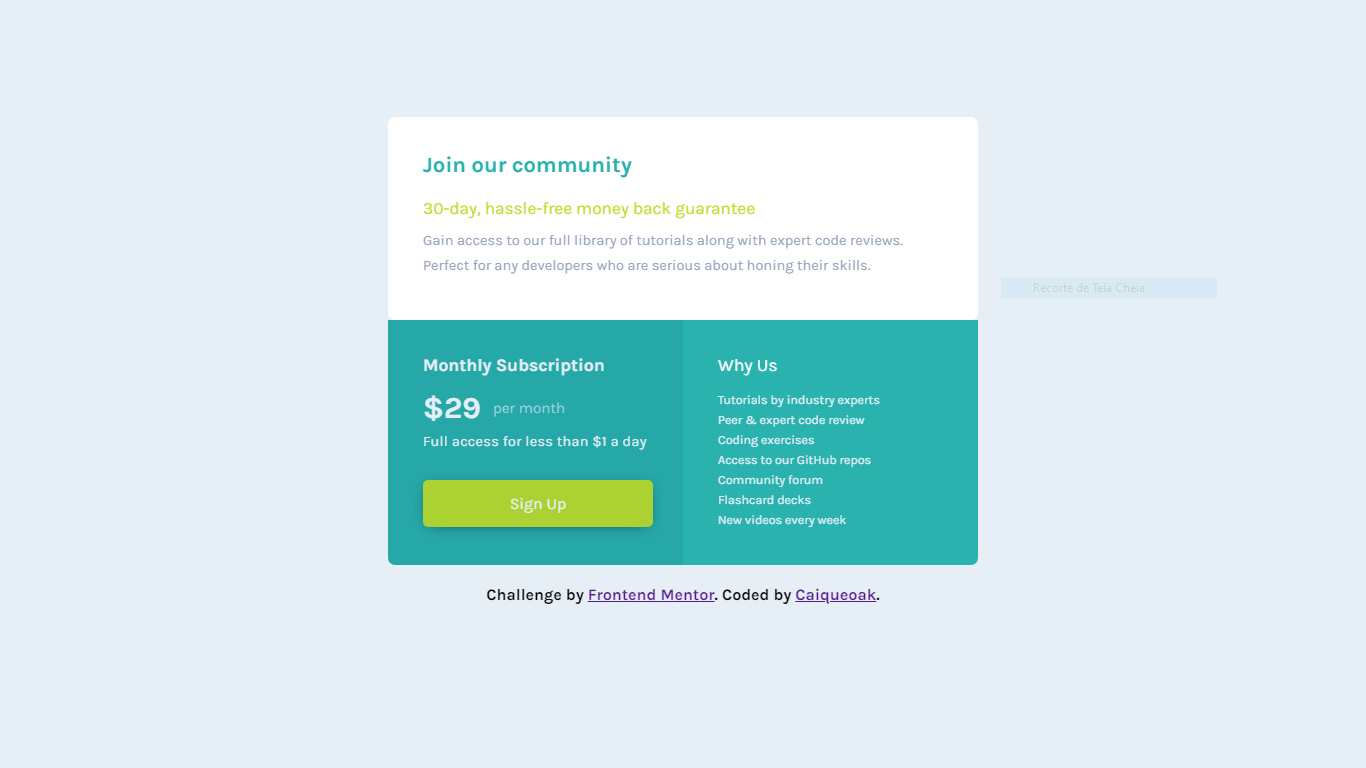
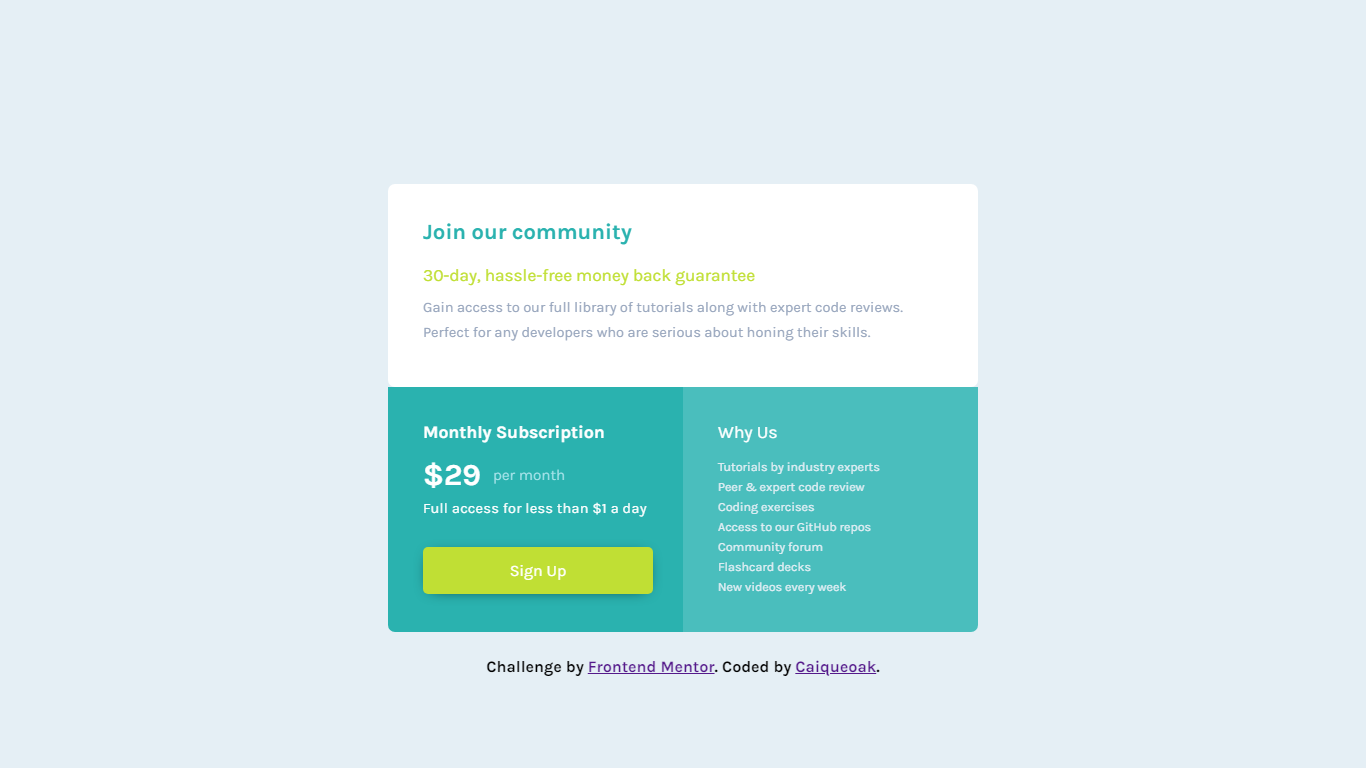
added a little effect on the sign up button

Changed region(s): [[0.2767, 0.125, 0.7379, 0.875]]

diff --git a/css/main.css b/css/main.css
@@ -57,7 +57,6 @@ body {
   display: flex;
   flex-direction: column;
   background-color: #2ab2af;
-  mix-blend-mode: multiply;
   color: white;
 }
 
@@ -106,8 +105,7 @@ body {
 .why-us {
   display: flex;
   flex-direction: column;
-  background-color: #2ab2af;
-  mix-blend-mode: normal;
+  background-color: #4abebd;
   color: white;
   border-radius: 0 0 5px 5px;
 }
@@ -133,13 +131,14 @@ footer {
   * {
     margin: 0 !important;
   }
+  body {
+    height: 100vh;
+  }
   .main-container {
-    max-width: none;
     display: grid;
     grid-template-columns: 1fr 1fr;
     grid-template-rows: 1fr 1fr;
     max-width: 660px;
-    padding-bottom: 20px;
   }
   .main-container .boxes {
     padding: 35px 30px 35px 35px;
@@ -187,7 +186,7 @@ footer {
     font-size: 0.78rem;
   }
   footer {
-    padding: 0;
+    padding-top: 25px;
   }
 }
 /*# sourceMappingURL=main.css.map */

diff --git a/sass/main.scss b/sass/main.scss
@@ -55,7 +55,6 @@ body {
   display: flex;
   flex-direction: column;
   background-color: $Cyan;
-  mix-blend-mode: multiply;
   color: white;
 
   #{&}-title {
@@ -102,8 +101,7 @@ body {
 .why-us {
   display: flex;
   flex-direction: column;
-  background-color: $Cyan;
-  mix-blend-mode: normal;
+  background-color: rgb(74,190,189);
   color: white;
   border-radius: 0 0 5px 5px;
 
@@ -130,13 +128,14 @@ footer {
   * {
     margin: 0 !important;
   }
+  body {
+    height: 100vh;
+  }
   .main-container {
-    max-width: none;
     display: grid;
     grid-template-columns: 1fr 1fr;
     grid-template-rows: 1fr 1fr;
     max-width: 660px;
-    padding-bottom: 20px;
 
     .boxes {
       padding: 35px 30px 35px 35px;
@@ -194,6 +193,6 @@ footer {
   }
 
   footer {
-    padding: 0;
+    padding-top: 25px;
   }
 }
